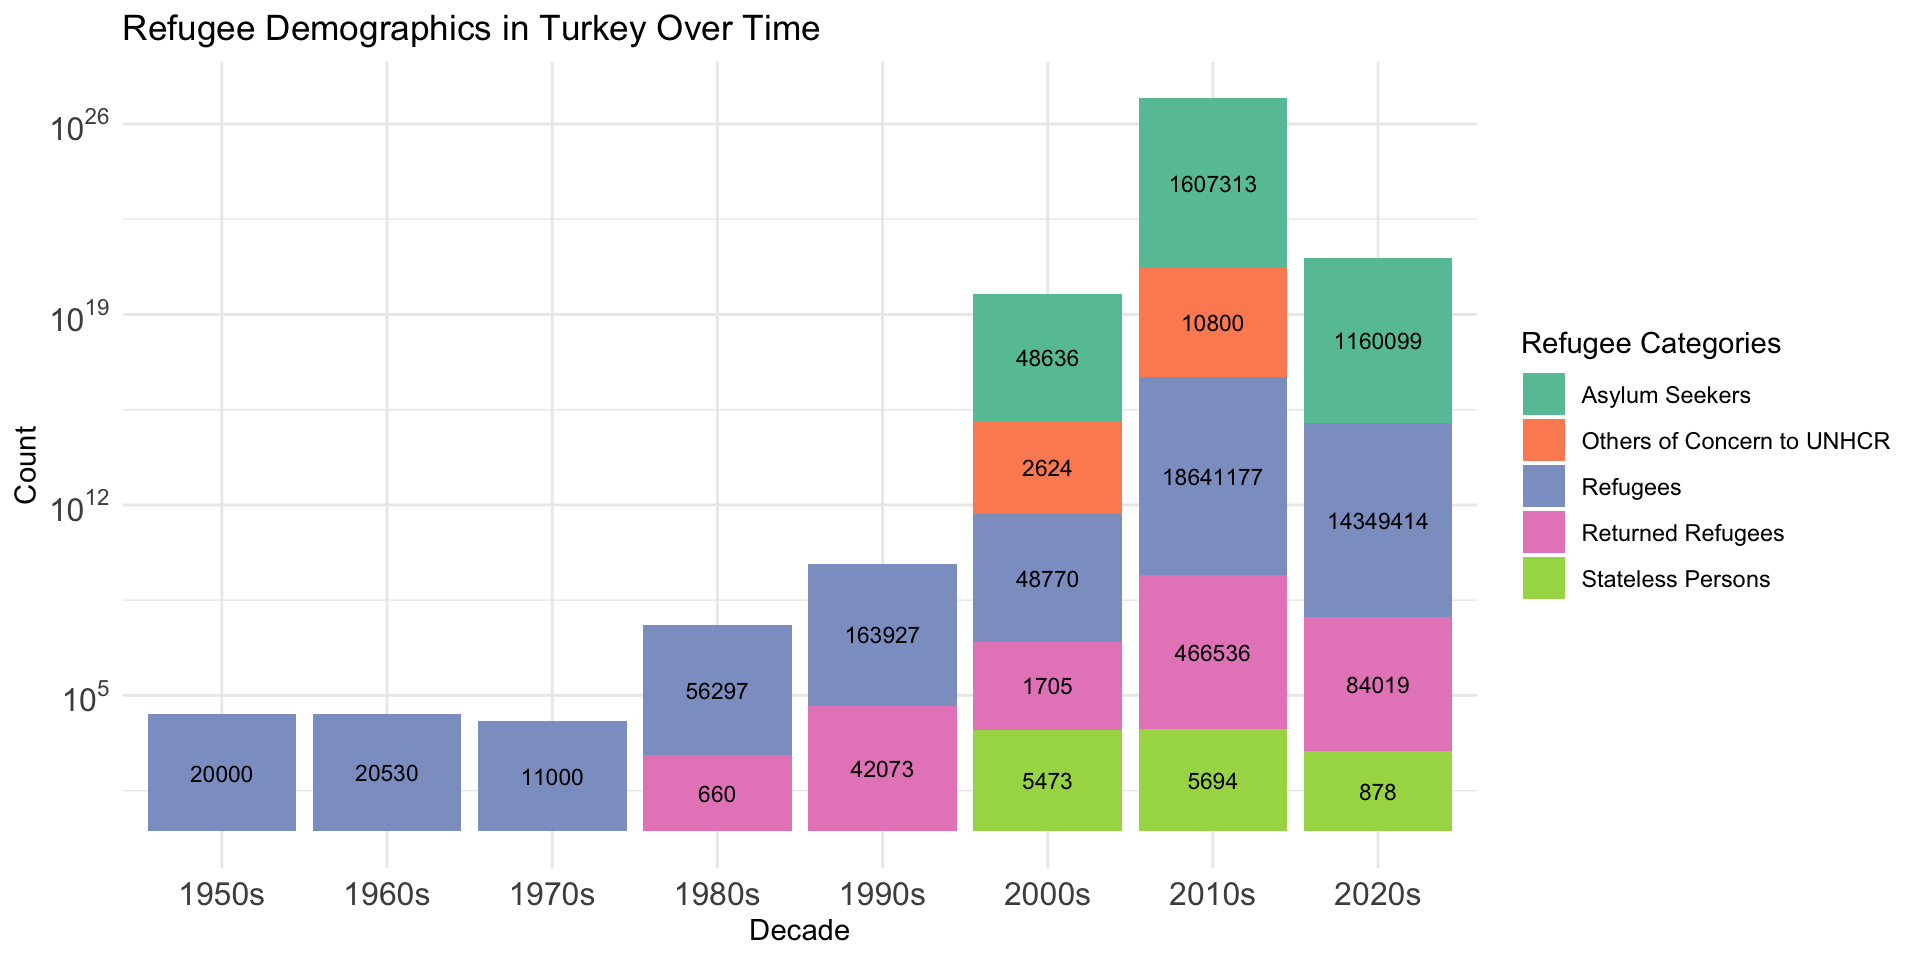
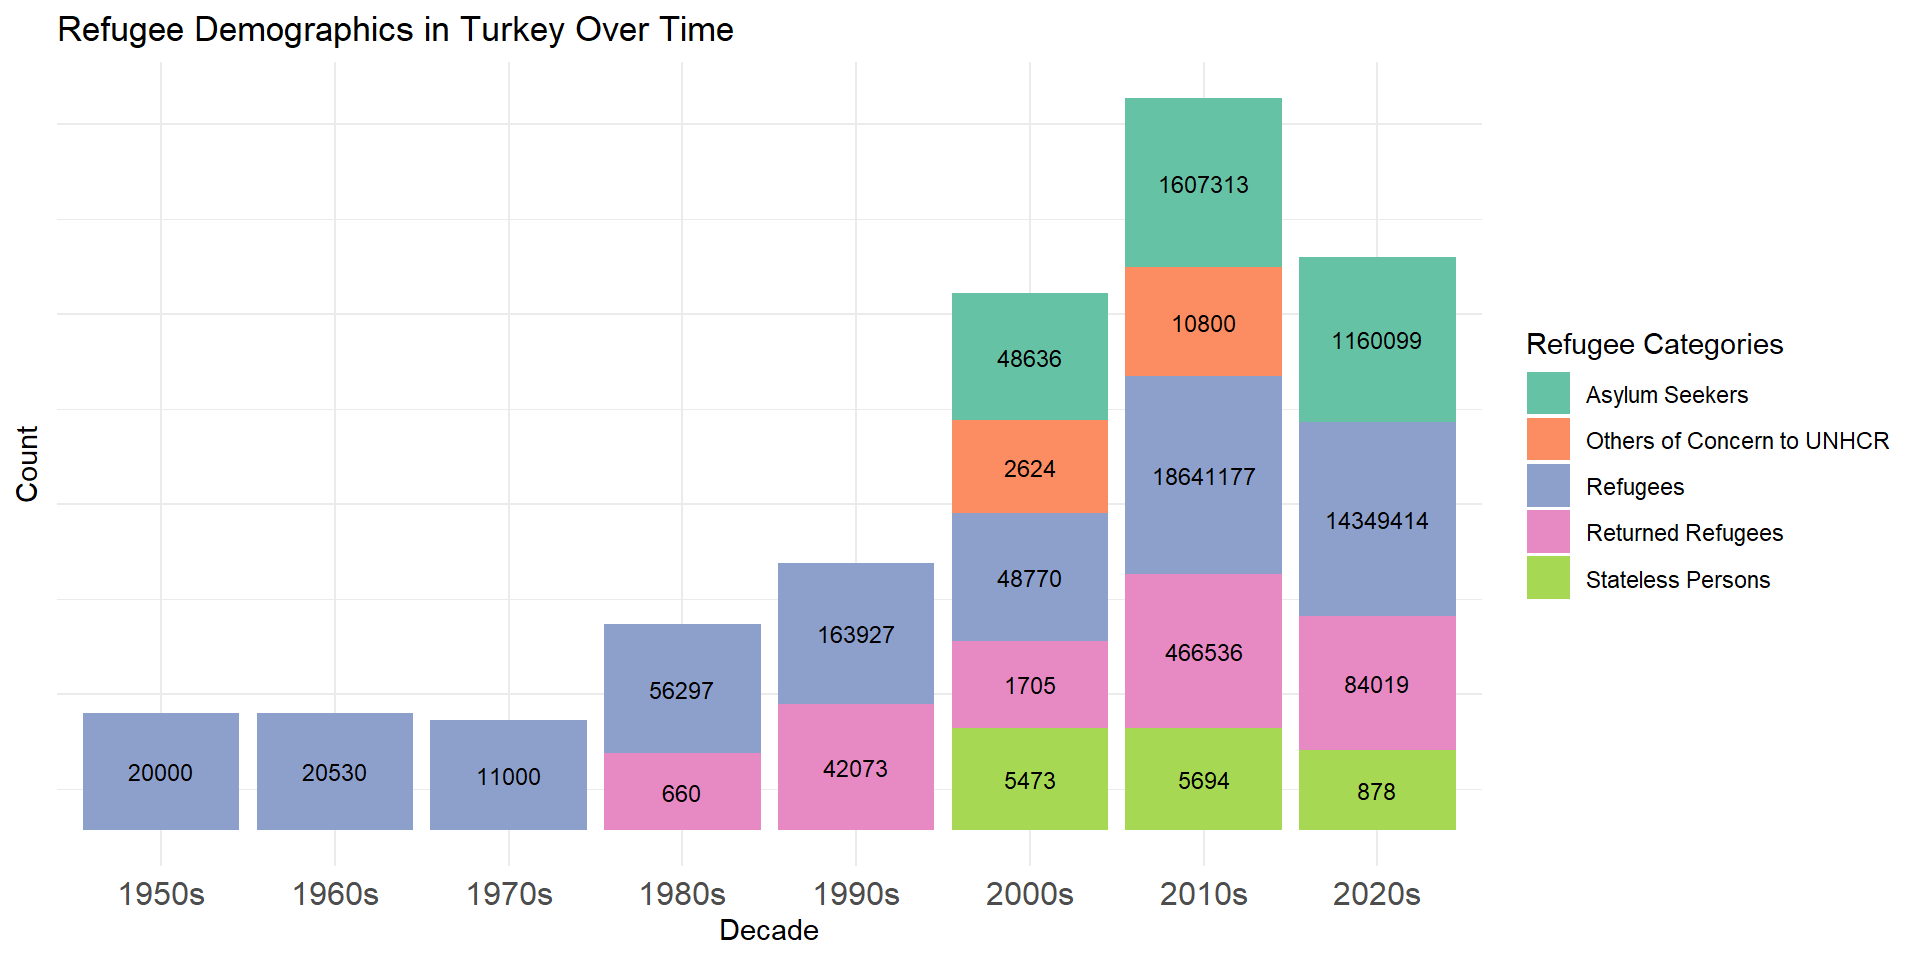
Analysis for graphs
Put analysis on the slides with graphs

diff --git a/_site/presentation.html b/_site/presentation.html
@@ -362,6 +362,13 @@
 </div>
 <div id="tabset-1-2">
 <p>Top 3 countries of origin + Afghanistan + Syria + Ukraine</p>
+<p>4th country almost thrice as small</p>
+<p>Correlates with the events:</p>
+<ul>
+<li><p>Taliban control Afghanistan</p></li>
+<li><p>Syrian conflict</p></li>
+<li><p>Russo-Ukranian war</p></li>
+</ul>
 </div>
 <div id="tabset-1-3">
 <div class="cell" data-fig.asp="0.5">
@@ -371,8 +378,14 @@
 </div>
 </div>
 <div id="tabset-1-4">
-<p>Top 3 countries of Asylum<br>
-+ Turkey + Iran + Germany</p>
+<p>Top 3 countries of Asylum are Turkey, Iran, and Germany</p>
+<p>The data have a more even spread.</p>
+<p>Three main types of countries of asylum:</p>
+<ol type="1">
+<li><p>Near a country with some hardship (Turkey, Bangladesh, Poland)</p></li>
+<li><p>Near many countries with some hardship (Uganda)</p></li>
+<li><p>A good place to seek refuge (Germany, U.S.A.)</p></li>
+</ol>
 </div>
 </div>
 </div>
@@ -384,7 +397,7 @@
 <section id="question-2-graphics" class="slide level2">
 <h2>Question 2 Graphics</h2>
 <div class="panel-tabset">
-<ul id="tabset-2" class="panel-tabset-tabby"><li><a data-tabby-default="" href="#tabset-2-1">Graph 1</a></li><li><a href="#tabset-2-2">Graph 2</a></li></ul>
+<ul id="tabset-2" class="panel-tabset-tabby"><li><a data-tabby-default="" href="#tabset-2-1">Graph 1</a></li><li><a href="#tabset-2-2">Graph 1</a></li><li><a href="#tabset-2-3">Graph 2</a></li><li><a href="#tabset-2-4">Graph 2</a></li></ul>
 <div class="tab-content">
 <div id="tabset-2-1">
 <div class="cell">
@@ -394,11 +407,19 @@
 </div>
 </div>
 <div id="tabset-2-2">
+<p>The rate of growth is faster than exponential. Most of the growth occurs right after 2010.</p>
+<p>The rate of natural population growth should be a straight line on a log graph. This represents significant outside factors on the influx of Turkish refugees.</p>
+</div>
+<div id="tabset-2-3">
 <div class="cell">
 <div class="cell-output-display">
 <p><img data-src="presentation_files/figure-revealjs/unnamed-chunk-6-1.png" width="960"></p>
 </div>
 </div>
+</div>
+<div id="tabset-2-4">
+<p>Refugees makes up the bulk of refugee demographics throughout time.</p>
+<p>Big jump in Asylum Seekers and Returned Refugees during and after 2010.</p>
 </div>
 </div>
 </div>
